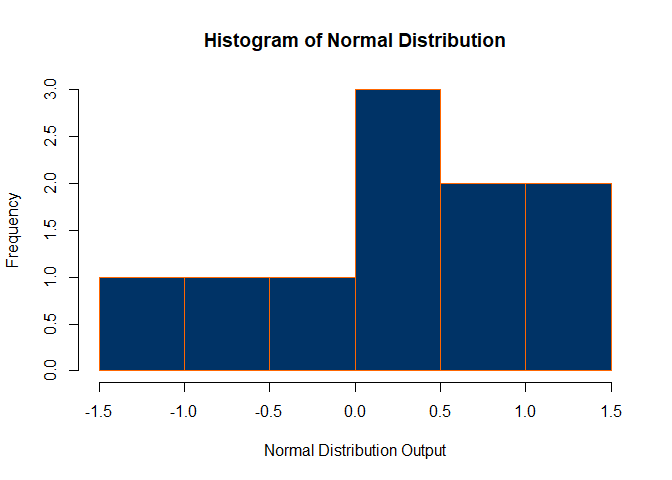
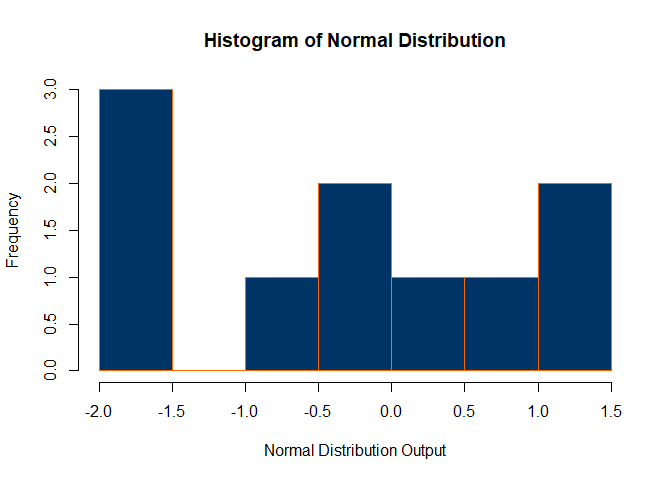
updated

diff --git a/hw4package/README.md b/hw4package/README.md
@@ -38,8 +38,8 @@ distributions.
 ``` r
 library(hw4package)
 get_samples_dist('normal', 10)
-#>  [1]  0.2048434  2.1113419  1.0192561 -0.1260170 -1.0248126  1.0958454
-#>  [7] -1.2853905  1.3495468 -0.3652068  1.6381906
+#>  [1]  1.2342407 -2.1890781  1.5339851  0.8036159 -0.7185504  0.7511472
+#>  [7] -1.4721635  1.2825279 -0.9829344 -0.3792187
 ```
 
 This is a basic example of the get\_plots\_dist() function which returns
